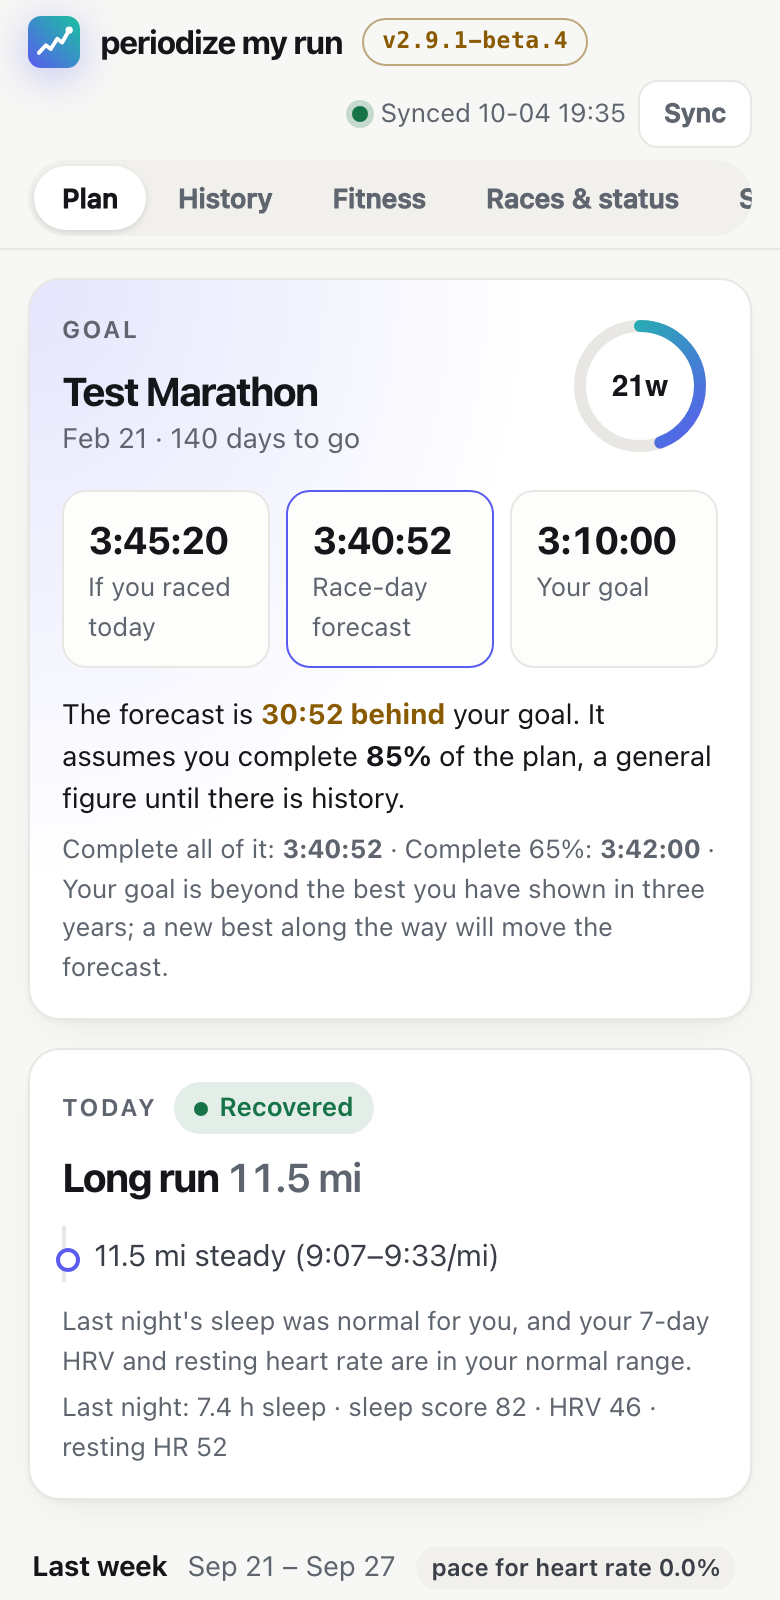
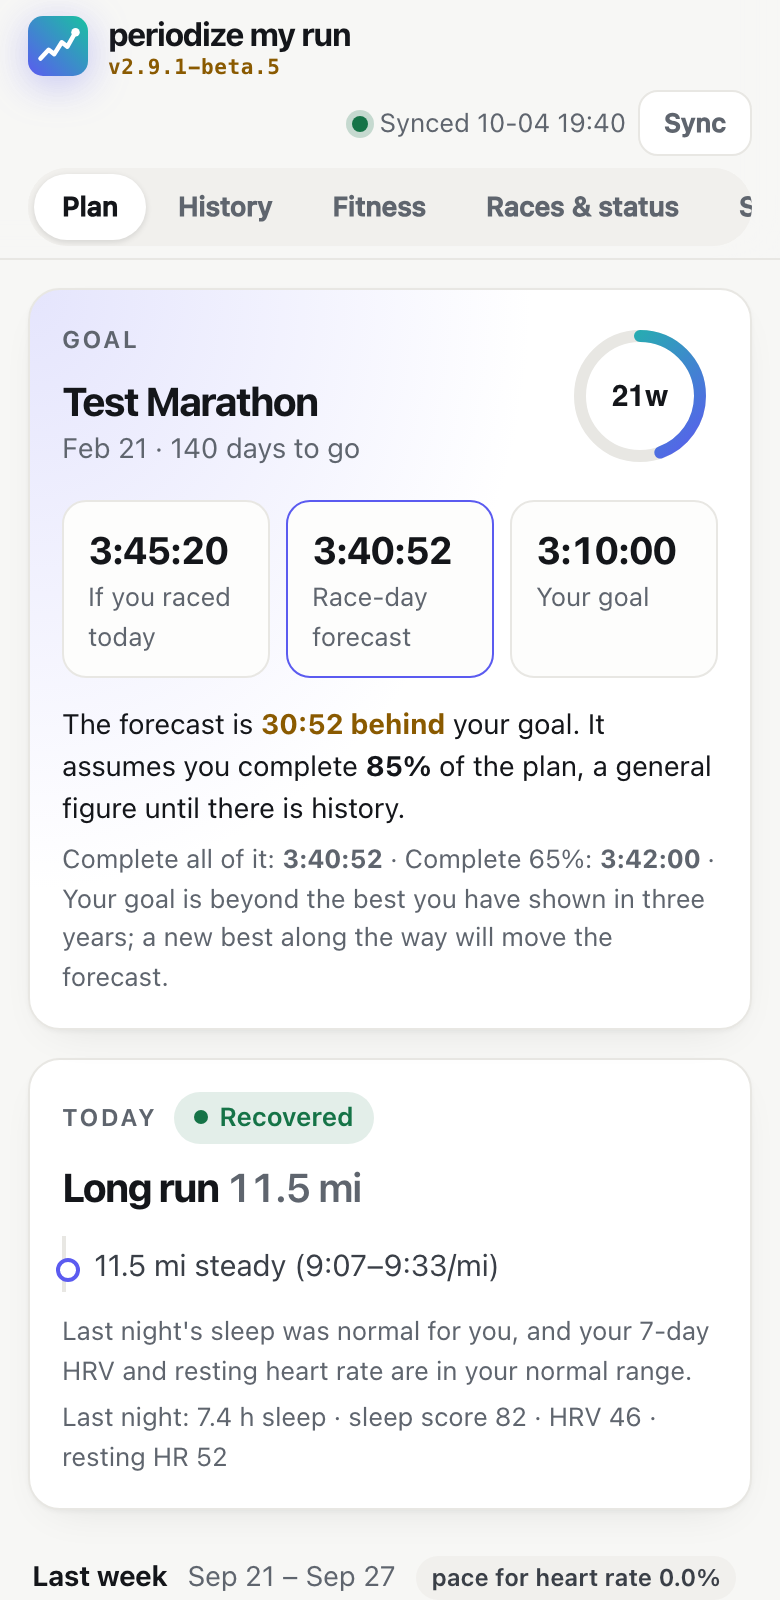
Header fits at every width; version under the app name (2.9.1-beta.5)

diff --git a/static/index.html b/static/index.html
@@ -33,18 +33,18 @@ html:has(dialog[open]){overflow:hidden}
 body{margin:0;background:var(--bg);color:var(--ink);font:15px/1.5 Inter,ui-sans-serif,-apple-system,BlinkMacSystemFont,"Segoe UI",Roboto,sans-serif;-webkit-font-smoothing:antialiased;padding-bottom:env(safe-area-inset-bottom)}
 .num{font-variant-numeric:tabular-nums;letter-spacing:-.02em}
 a{color:inherit}
-.vpill{flex:none;font:600 11.5px/1 ui-monospace,SFMono-Regular,Menlo,monospace;letter-spacing:.02em;color:var(--mute);border:1px solid var(--line);border-radius:999px;padding:5px 9px;text-decoration:none;white-space:nowrap}.vpill:hover{color:var(--text,inherit);border-color:var(--mute)}.vpill.beta{color:var(--amber);border-color:color-mix(in srgb,var(--amber) 45%,var(--line))}
+.vpill{grid-column:2;grid-row:2;justify-self:start;font:600 10.5px/1 ui-monospace,SFMono-Regular,Menlo,monospace;letter-spacing:.03em;color:var(--mute);text-decoration:none;white-space:nowrap;margin-top:2px}.vpill:hover{color:var(--ink)}.vpill.beta{color:var(--amber)}
 .top{position:sticky;top:0;z-index:20;backdrop-filter:saturate(1.4) blur(14px);-webkit-backdrop-filter:saturate(1.4) blur(14px);background:color-mix(in srgb,var(--bg) 82%,transparent);border-bottom:1px solid var(--line)}
 .top .in{max-width:1200px;margin:0 auto;padding:10px 20px;display:flex;align-items:center;gap:16px}
-.logo{display:flex;align-items:center;gap:10px;text-decoration:none}
-.logo svg{width:30px;height:30px;display:block;filter:drop-shadow(0 4px 10px rgba(91,91,240,.35))}
-.logo b{white-space:nowrap;font-size:18px;font-weight:720;letter-spacing:-.035em}
-.tabs{display:flex;gap:2px;background:var(--hover);padding:3px;border-radius:999px;margin:0 auto}
+.brand{flex:none;display:grid;grid-template-columns:auto auto;column-gap:10px;align-items:center}.logo{display:contents;text-decoration:none}
+.logo svg{grid-row:1/3;grid-column:1;width:32px;height:32px;display:block;filter:drop-shadow(0 4px 10px rgba(91,91,240,.35))}
+.logo b{grid-column:2;grid-row:1;white-space:nowrap;line-height:1.15;font-size:18px;font-weight:720;letter-spacing:-.035em}
+.tabs{display:flex;gap:2px;background:var(--hover);padding:3px;border-radius:999px;margin:0 auto;min-width:0;overflow-x:auto}
 .tabs:empty{display:none}
 .tabs button{border:0;background:none;color:var(--mute);font:inherit;font-weight:560;font-size:13.5px;padding:6px 14px;border-radius:999px;cursor:pointer;transition:.15s;white-space:nowrap}
 .tabs button:hover{color:var(--ink)}
 .tabs button.on{background:var(--surface);color:var(--ink);box-shadow:0 1px 3px rgba(0,0,0,.12)}
-.sync{display:flex;align-items:center;gap:8px;font-size:12.5px;color:var(--mute);white-space:nowrap}
+.sync{flex:none;display:flex;align-items:center;gap:8px;font-size:12.5px;color:var(--mute);white-space:nowrap}
 .dot{width:8px;height:8px;border-radius:50%;background:var(--green);box-shadow:0 0 0 3px color-mix(in srgb,var(--green) 22%,transparent)}
 .dot.busy{background:var(--brand);animation:pulse 1.1s infinite}.dot.bad{background:var(--red);box-shadow:0 0 0 3px color-mix(in srgb,var(--red) 22%,transparent)}
 @keyframes pulse{50%{opacity:.35;transform:scale(.8)}}
@@ -163,6 +163,8 @@ code{font:12.5px ui-monospace,SFMono-Regular,Menlo,monospace;background:var(--ho
 .sheet .item .h{font-size:17px}.sheet .item .dec{margin:6px 0 8px;font-weight:650;line-height:1.4}
 .sheet .item .k{margin:8px 0 0;color:var(--ink2);line-height:1.5}.sheet .item .k.mute{color:var(--mute)}
 .tabs::-webkit-scrollbar{display:none}.tabs{scrollbar-width:none}
+@media (max-width:1120px) and (min-width:901px){.top .in{flex-wrap:wrap;gap:8px 12px}.tabs{order:3;width:100%;justify-content:center;margin:0;overflow-x:auto}.sync{margin-left:auto}}
+@media (max-width:1280px) and (min-width:1121px){.tabs button{padding:6px 10px}.top .in{gap:12px}}
 @media (max-width:900px){
   .card,.c6,.c8{grid-column:span 12}
   .cal{grid-template-columns:1fr}.day{min-height:0;flex-direction:row;flex-wrap:wrap;align-items:baseline;gap:4px 10px}.day .d{width:100%}.day .t{width:100%;-webkit-line-clamp:3}.day .f{margin:0;padding:0}.day .l{margin:0}
@@ -171,7 +173,7 @@ code{font:12.5px ui-monospace,SFMono-Regular,Menlo,monospace;background:var(--ho
 }
 @media (max-width:600px){
   body{font-size:16px}
-  .logo svg{width:26px;height:26px}.logo b{font-size:16px}
+  .logo svg{width:30px;height:30px}.logo b{font-size:16px}
   .sync{font-size:13px;gap:6px}.sync .ghost{padding:6px 12px}
   .card{padding:16px}.h{font-size:20px}
   .small{font-size:14px}.xs{font-size:13px}.stat .k{font-size:13px}.stat .v{font-size:19px}.stats{gap:8px}
@@ -196,11 +198,11 @@ code{font:12.5px ui-monospace,SFMono-Regular,Menlo,monospace;background:var(--ho
 </head>
 <body>
 <div class="top"><div class="in">
-  <a class="logo" href="/" aria-label="Periodize My Run">
+  <div class="brand"><a class="logo" href="/" aria-label="Periodize My Run">
     <svg viewBox="0 0 48 48" aria-hidden="true"><defs><linearGradient id="lg" x1="0" y1="1" x2="1" y2="0"><stop offset="0" stop-color="#5b5bf0"/><stop offset="1" stop-color="#19c2a0"/></linearGradient></defs>
       <rect width="48" height="48" rx="12" fill="url(#lg)"/><path d="M10 34l6.5-7 4.5 3.5 6-9.5 4.5 3.5L38 13" fill="none" stroke="#fff" stroke-width="3.6" stroke-linecap="round" stroke-linejoin="round"/><circle cx="38" cy="13" r="3.4" fill="#fff"/></svg>
     <b>periodize my run</b></a>
-  <a class="vpill" id="ver" href="#" hidden></a>
+  <a class="vpill" id="ver" href="#" hidden></a></div>
   <div class="tabs" id="nav"></div>
   <div class="sync" id="sync"></div>
 </div></div>

diff --git a/CHANGELOG.md b/CHANGELOG.md
@@ -3,6 +3,12 @@
 Every version of Periodize, newest first. Each entry says what was added, changed, removed or fixed.
 The app's Change log page is drawn from this file.
 
+## 2.9.1-beta.5 - 2026-10-04
+### Fixed
+- The page scrolled sideways in a window about 1000 to 1250 pixels wide (a Mac app window, for example): the header, with the version added, was wider than the window. The header now fits at every width: below 1120 pixels the tabs move to their own row, and above it they tighten.
+### Changed
+- The version is now a quiet line under the app's name instead of a pill beside it, so the name stays on one line.
+
 ## 2.9.1-beta.4 - 2026-10-04
 ### Fixed
 - The Change log page looked broken in 2.9.1-beta.3: the new version pill shared a style name with each version's card, so every card was set in the pill's small monospace type and would not wrap. The pill has its own style now, and the app's name no longer wraps beside it.
